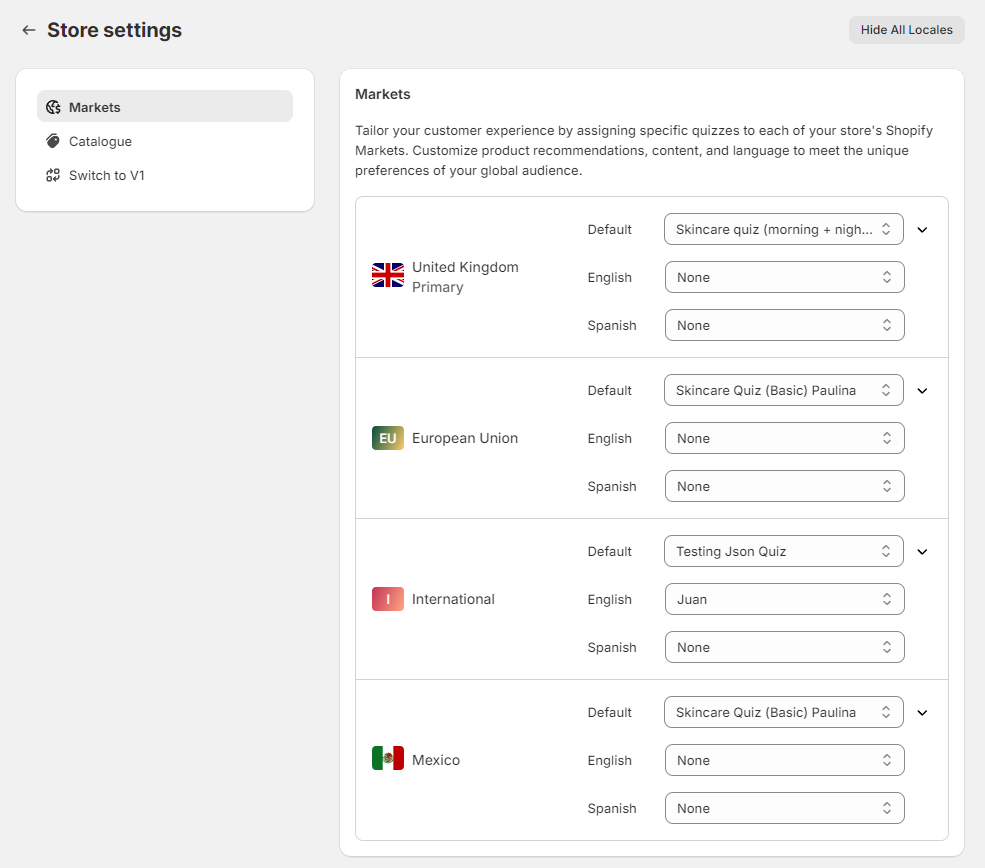
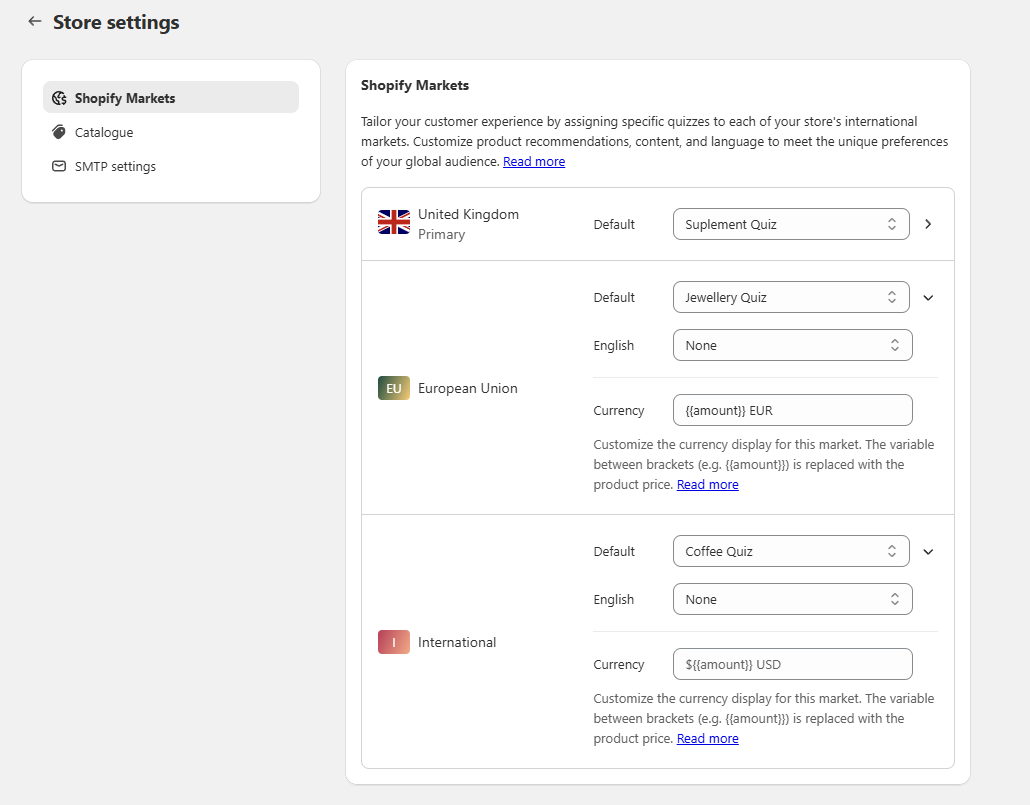
Updated App settings refernce for Shopify V2

diff --git a/docs/reference/app-settings.md b/docs/reference/app-settings.md
@@ -349,11 +349,17 @@
 
     ![manual_shopifyV2_appsettings_markets_pickquiz](/images/manual_shopifyV2_appsettings_markets_pickquiz.png)
 
-    **Show All Locales** - Displays a list of all markets and lanugages. Once activated gives you a chance to pick a different quiz that will be shown by dafault for the customer from that Market **and** lanuguage.
+    **Show All Locales** -  Click ➜ to displays a list of all markets, lanugages and currencies. Once activated gives you a chance to pick a different quiz that will be shown by dafault for the customer from that Market **and** lanuguage.
 
     ![manual_shopifyV2_appsettings_markets_showall](/images/manual_shopifyV2_appsettings_markets_showall.png)
 
-    **Hide All Locales** - Return to a simplified view of all Markets, without language disctinction. The app will show the default quiz for all the visitors from that Market regardless of the language they chose.
+    **Hide All Locales** - Click 🡻 to return to a simplified view of all Markets, without language disctinction. The app will show the default quiz for all the visitors from that Market regardless of the language they chose.
+
+    **Default** - Select the default quiz for a speciifc region.
+
+    **Language** - Selct a default quiz for a specific language in this region.
+
+    **Currency** - Type `{{amount}} EUR` or `${{amount}}` to change the currency format as displayed on the results page.
 
 === "WooCommerce"
 
